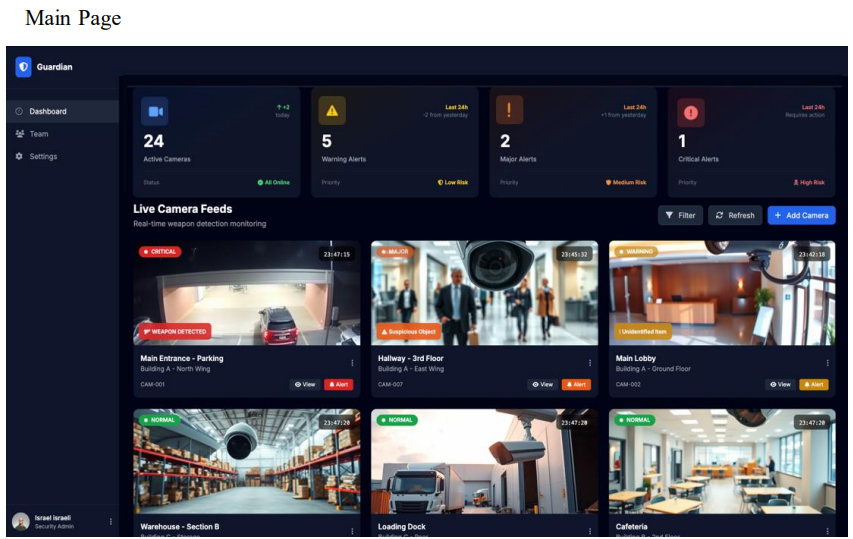
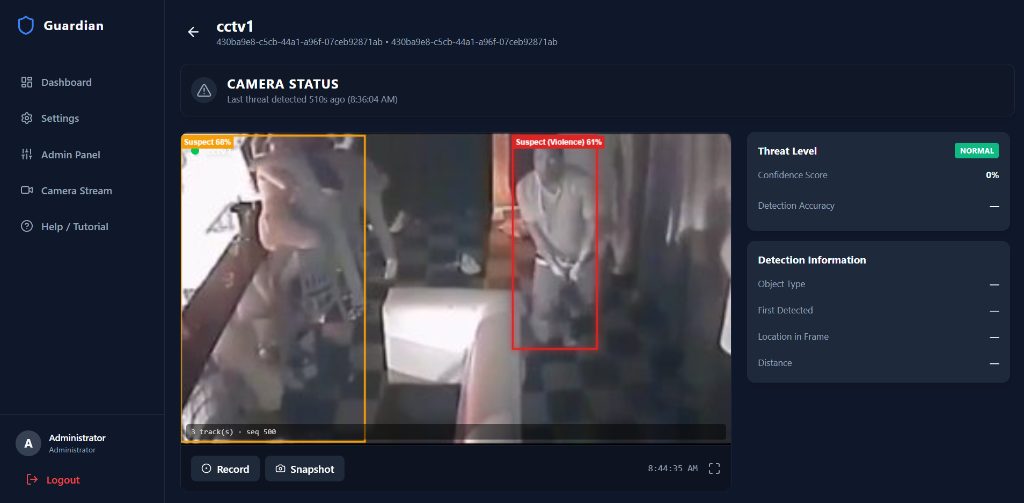
docs: replace current_metrics.png with current_metrics1.png and current_metrics2.png, update main_page.png

diff --git a/FINAL_PROJECT_BOOK.md b/FINAL_PROJECT_BOOK.md
@@ -743,7 +743,7 @@ Figure 4.4: End-to-End Latency Breakdown vs. Stream Resolution and Track Density
       +--------------------------------+---------------+---------------+---------------+
 ```
 
-*Note: Manually insert [current_metrics.png](file:///c:/Users/Shani%20Nahaissi/GUARDIAN/GUARDIAN/metrics/current_metrics.png) or [expected_metrics.png](file:///c:/Users/Shani%20Nahaissi/GUARDIAN/GUARDIAN/metrics/expected_metrics.png) here. This plot displays the near real-time processing throughput, frame latency variations, and CPU/GPU memory usage during live local inference.*
+*Note: Manually insert [current_metrics1.png](file:///c:/Users/Shani%20Nahaissi/GUARDIAN/GUARDIAN/metrics/current_metrics1.png) followed immediately by [current_metrics2.png](file:///c:/Users/Shani%20Nahaissi/GUARDIAN/GUARDIAN/metrics/current_metrics2.png) here. These plots display the near real-time processing throughput, frame latency variations, and CPU/GPU memory usage during live local inference.*
 
 ---
 
